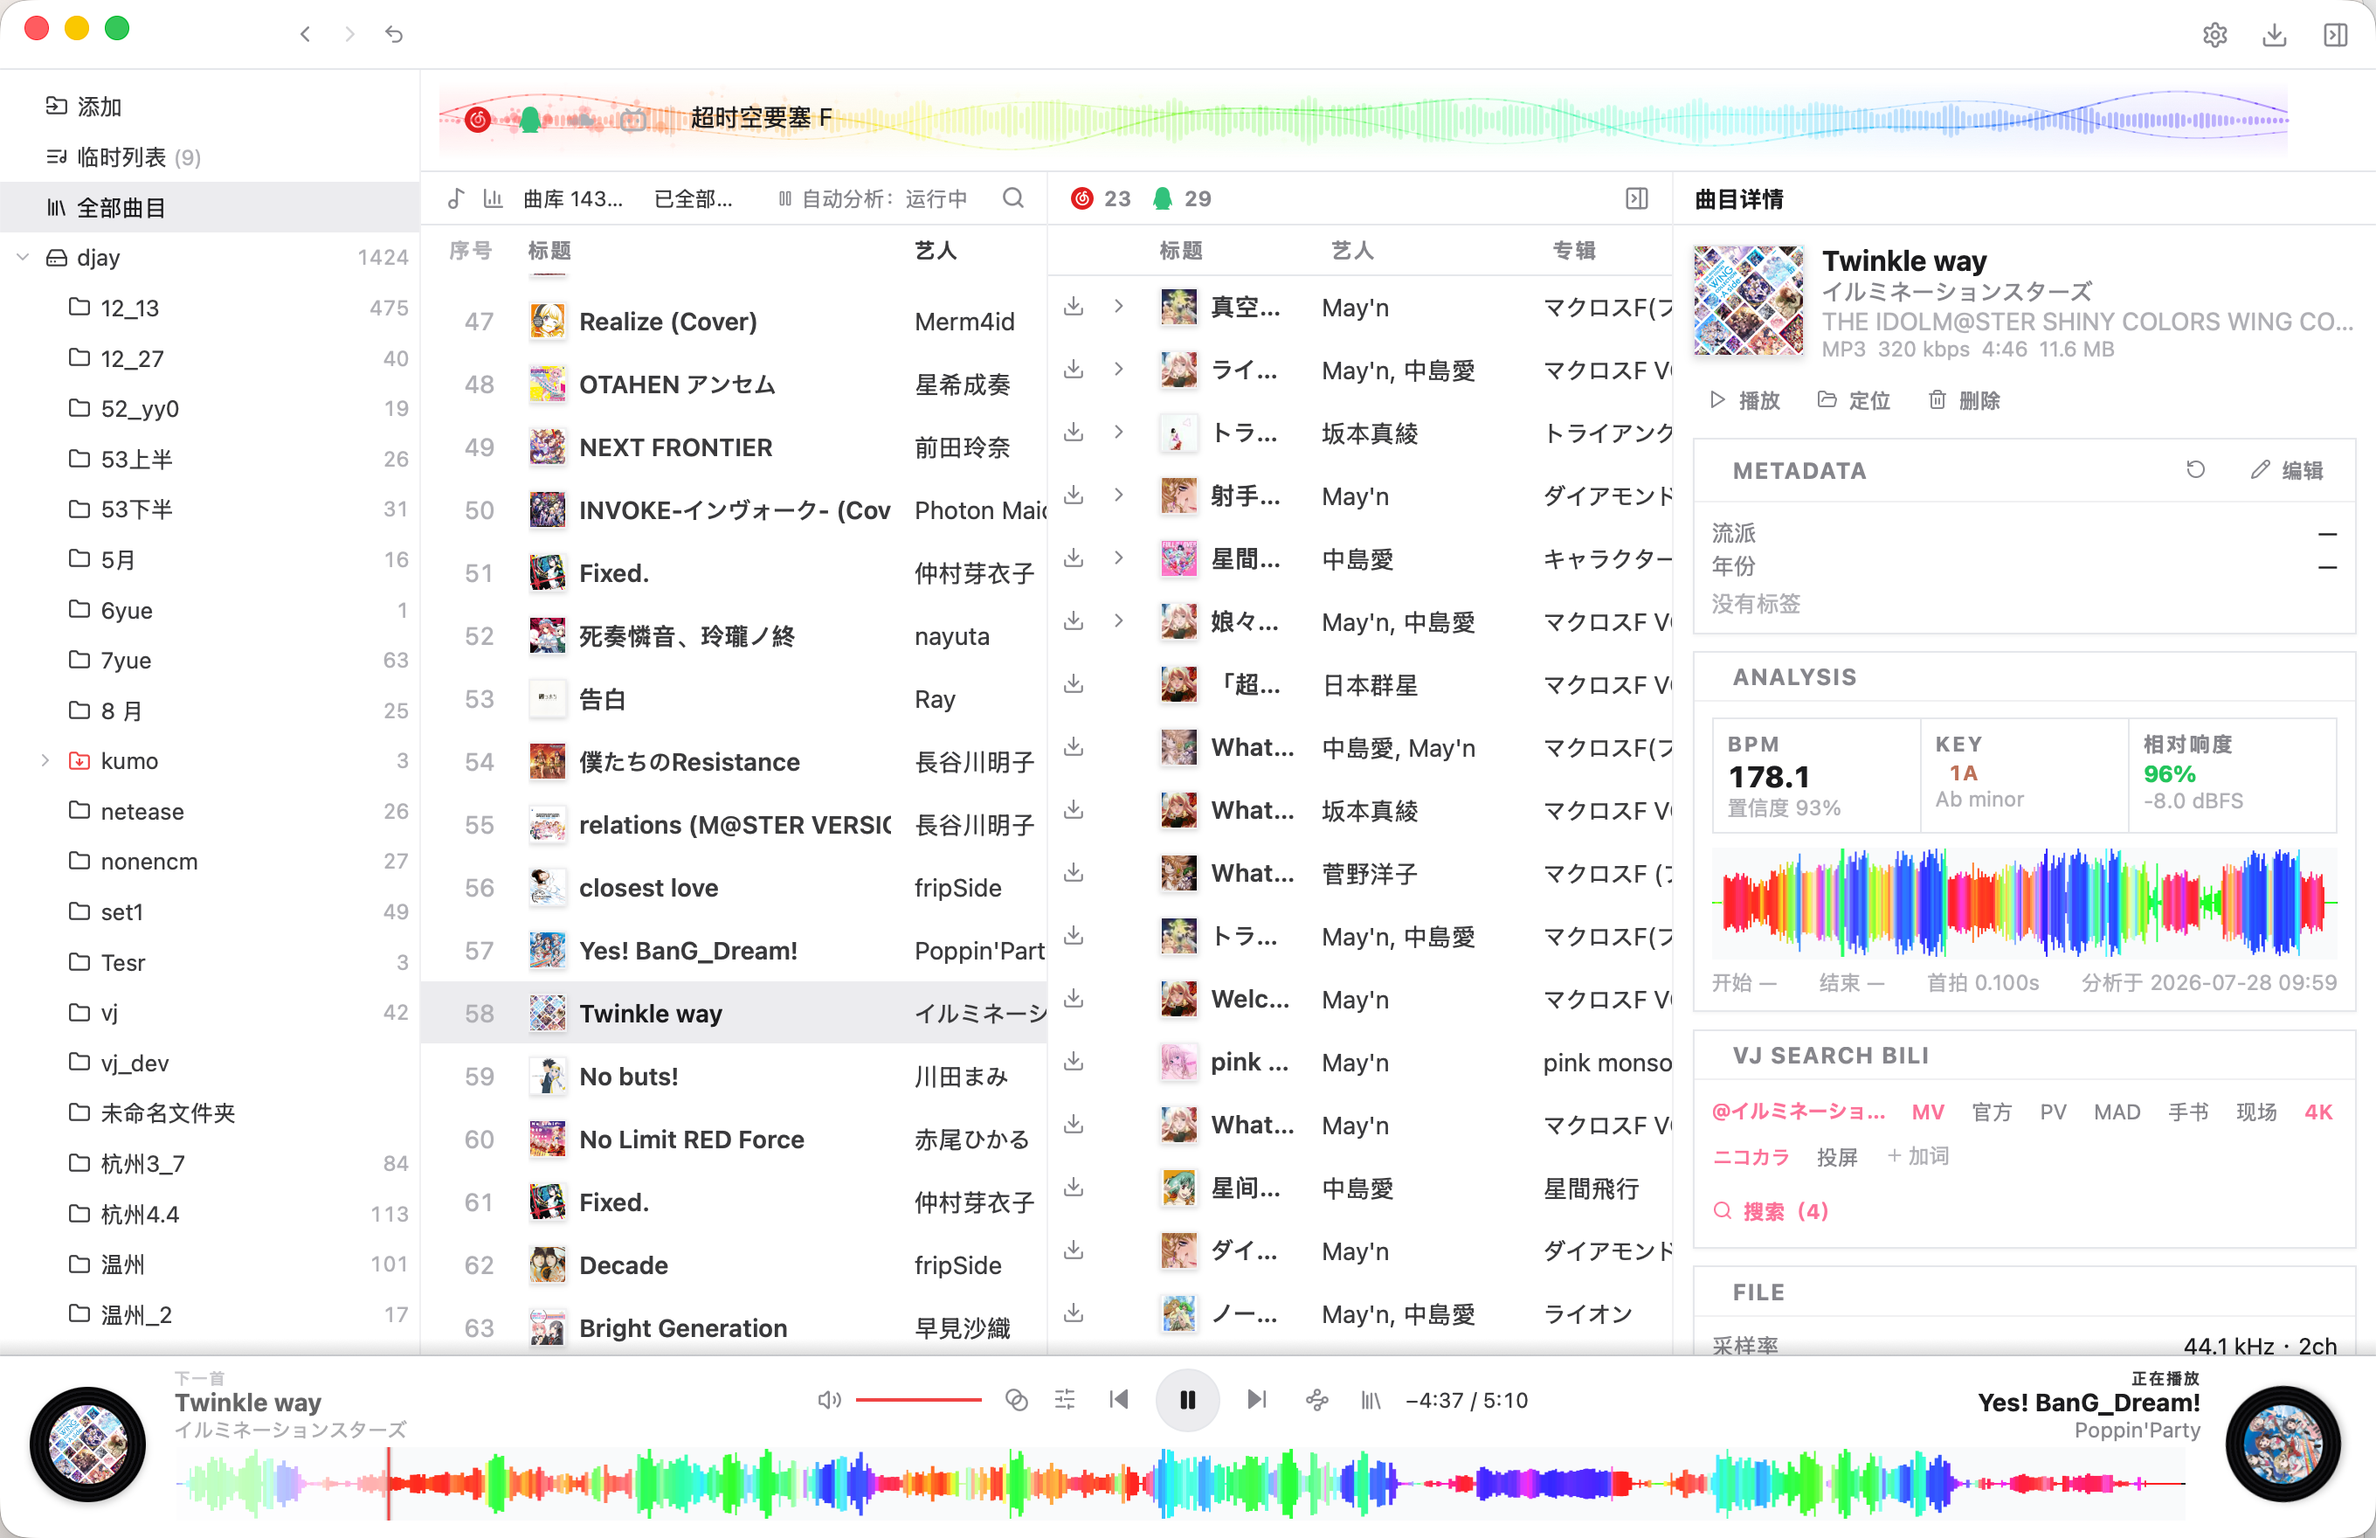
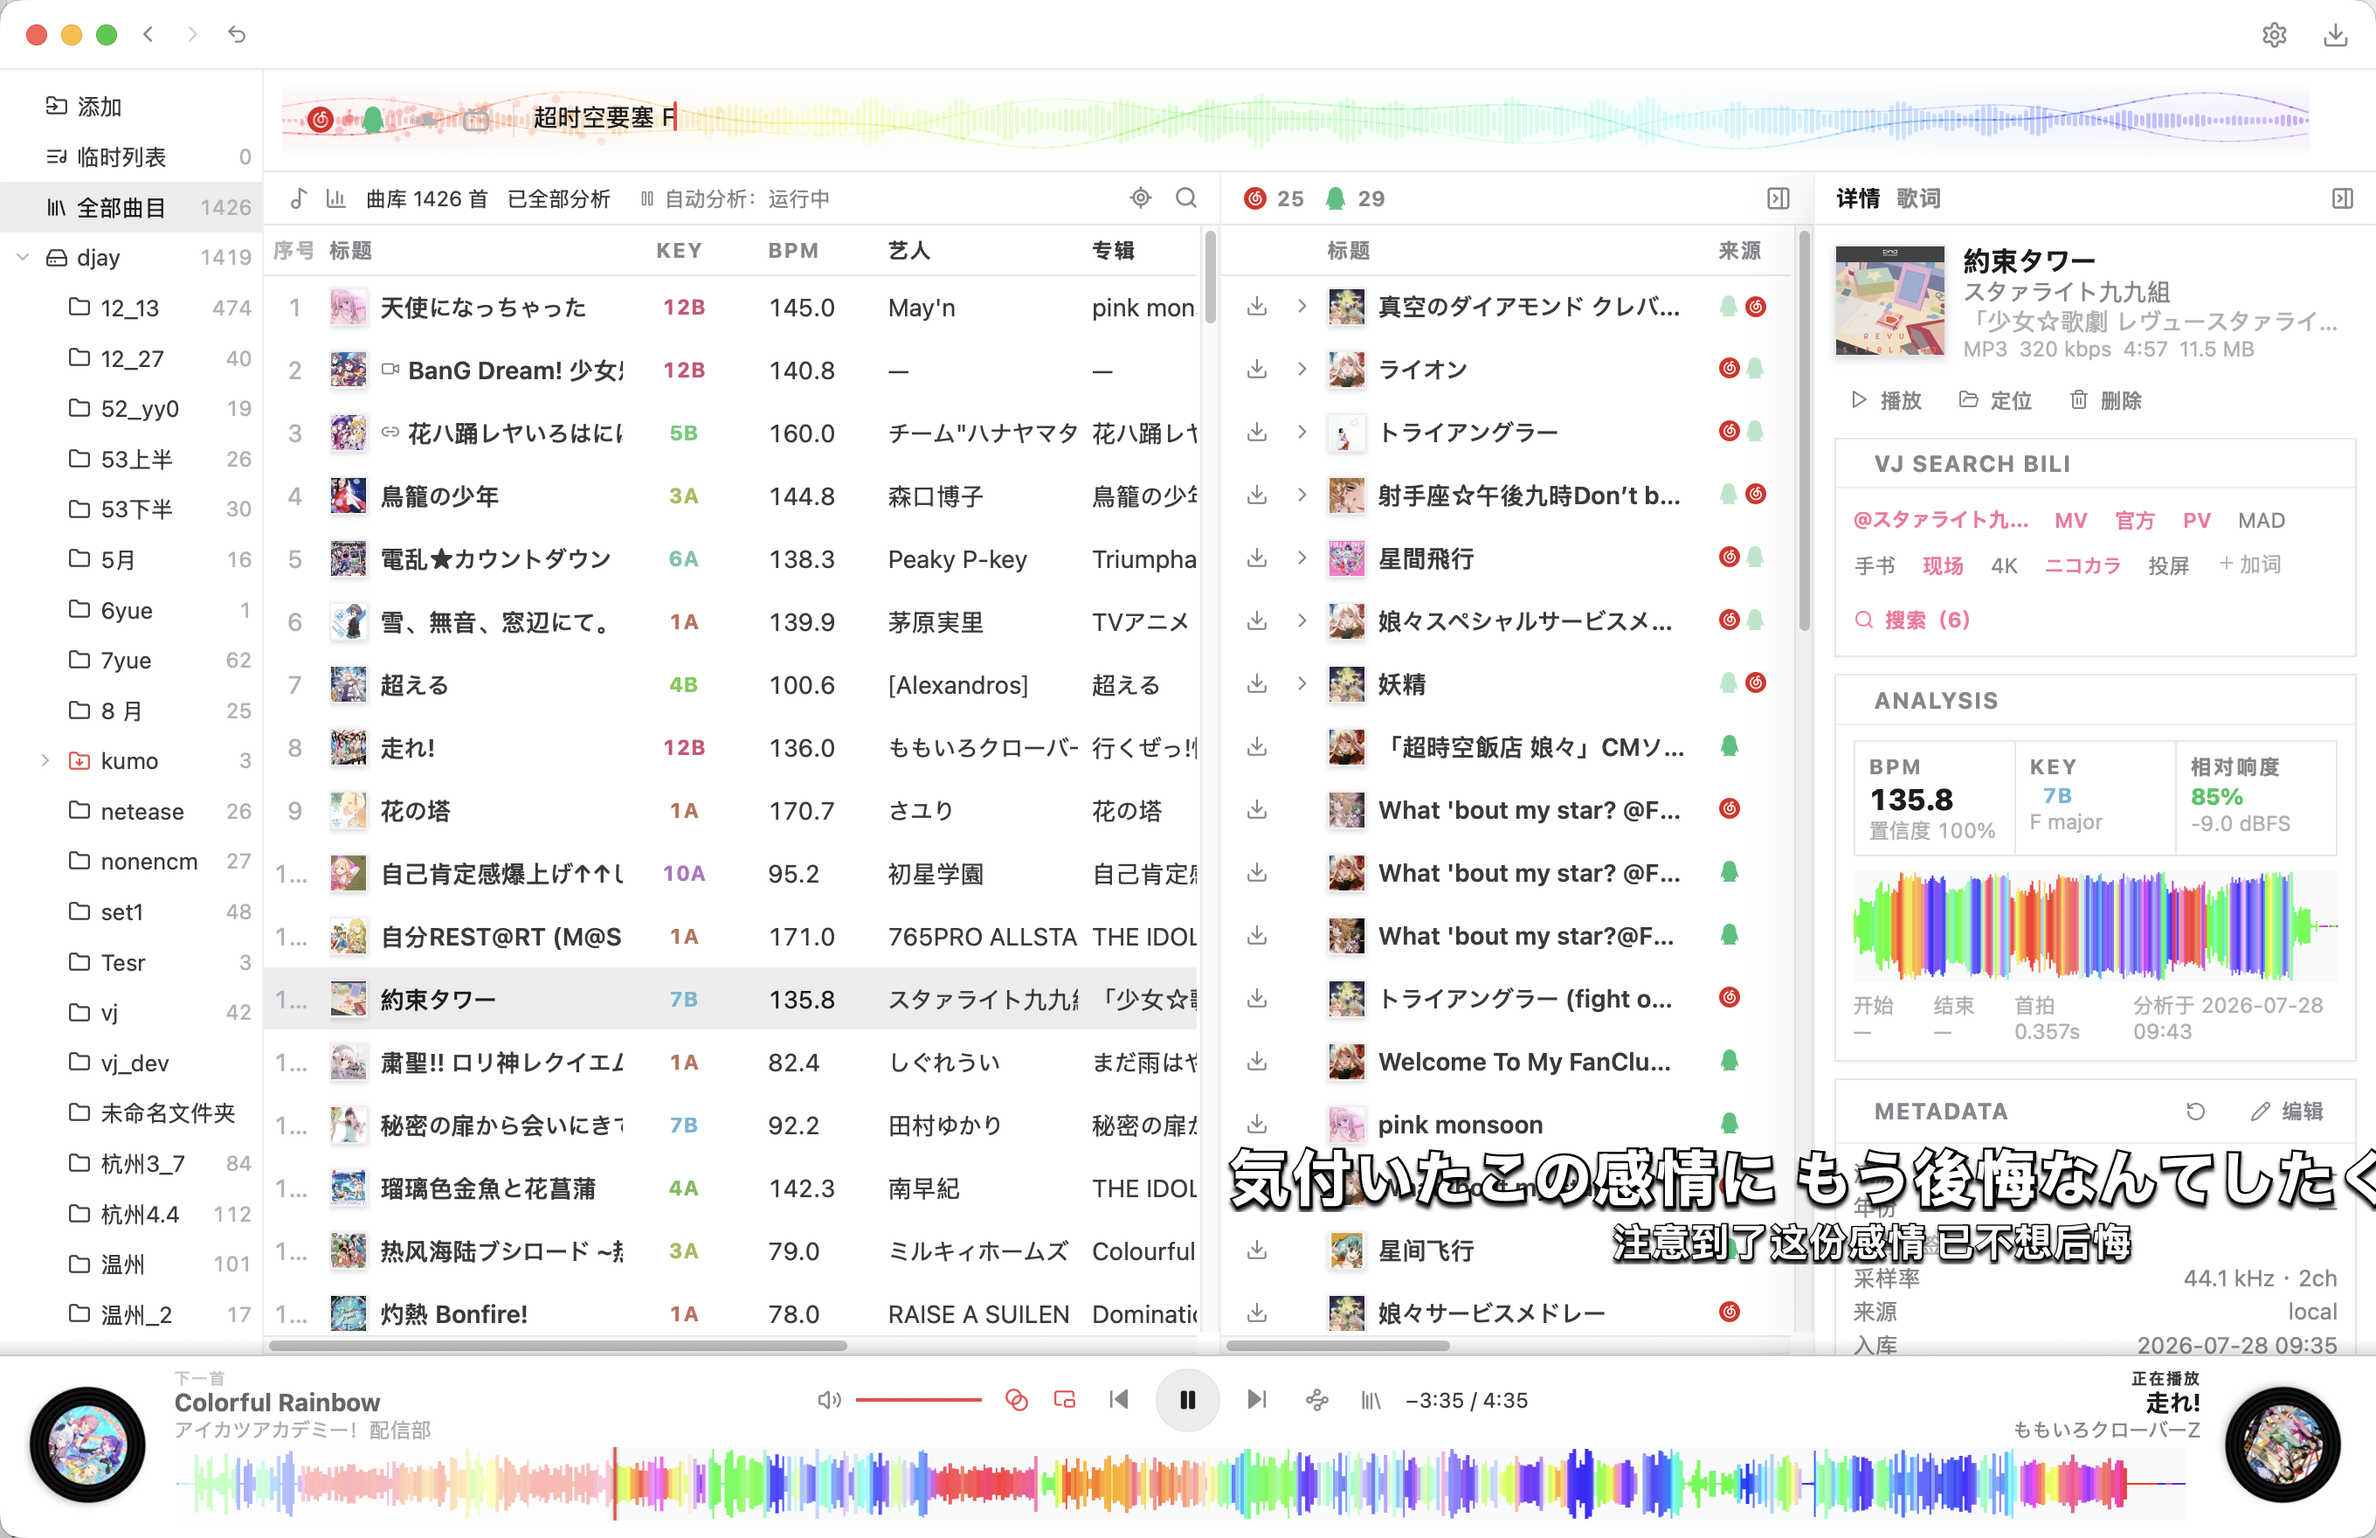
fix(macos): 红灯关闭改为隐藏主窗，避免半退出僵尸进程
点关闭只 hide 主窗并保留 WebView/播放；程序坞再点可唤回。真退出仍走 Cmd+Q。

diff --git a/src-tauri/src/lib.rs b/src-tauri/src/lib.rs
@@ -417,6 +417,12 @@ fn window_control(
                 Err(err) => Err(err),
             },
             "close" => {
+                // macOS：红灯/自绘关闭 = 藏到程序坞，播放继续；真退出走 Cmd+Q / 程序坞「退出」。
+                // 其它平台仍是关窗退出。
+                #[cfg(target_os = "macos")]
+                if _window.label() == "main" {
+                    return _window.hide().map_err(|err| err.to_string());
+                }
                 // 主窗口关闭时不能把透明歌词窗留成一个看不见入口的孤儿进程。
                 if _window.label() == "main" {
                     if let Some(lyrics) = _app.get_webview_window("lyrics-overlay") {
@@ -865,6 +871,39 @@ pub fn run() {
         set_desktop_lyrics
     ]);
 
+    // macOS：点红灯只藏主窗，别拆 WebView——否则桌面播放/歌词还在跑、进程却半死不活。
+    #[cfg(all(desktop, target_os = "macos"))]
+    let builder = builder.on_window_event(|window, event| {
+        if let tauri::WindowEvent::CloseRequested { api, .. } = event {
+            if window.label() == "main" {
+                let _ = window.hide();
+                api.prevent_close();
+            }
+        }
+    });
+
+    #[cfg(desktop)]
+    {
+        let app = builder
+            .build(tauri::generate_context!())
+            .expect("KDJ 启动失败");
+        app.run(|app_handle, event| {
+            #[cfg(target_os = "macos")]
+            if let tauri::RunEvent::Reopen { .. } = &event {
+                // 程序坞图标再点一下：唤回被红灯藏起的主窗。
+                // 桌面歌词可能仍可见，所以不能只看 has_visible_windows。
+                if let Some(window) = app_handle.get_webview_window("main") {
+                    let _ = window.unminimize();
+                    let _ = window.show();
+                    let _ = window.set_focus();
+                }
+            }
+            let _ = (app_handle, event);
+        });
+        return;
+    }
+
+    #[cfg(not(desktop))]
     builder
         .run(tauri::generate_context!())
         .expect("KDJ 启动失败");
